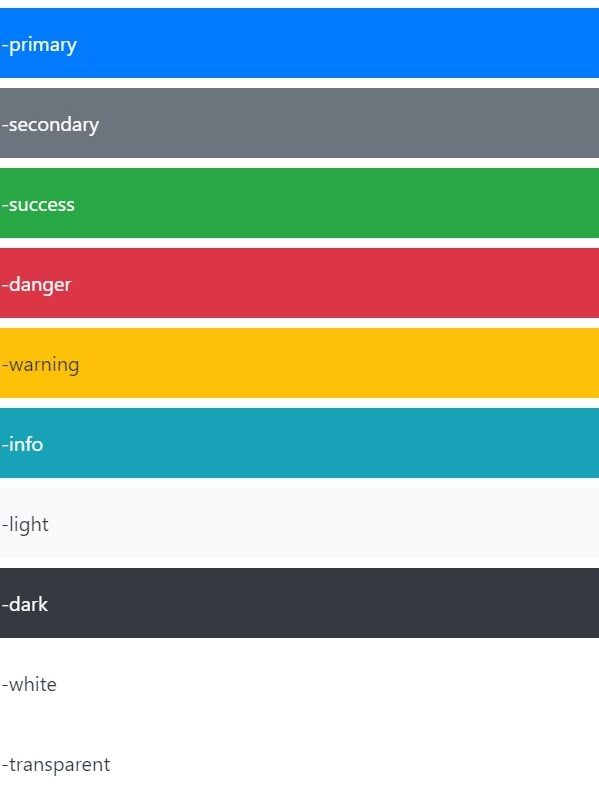
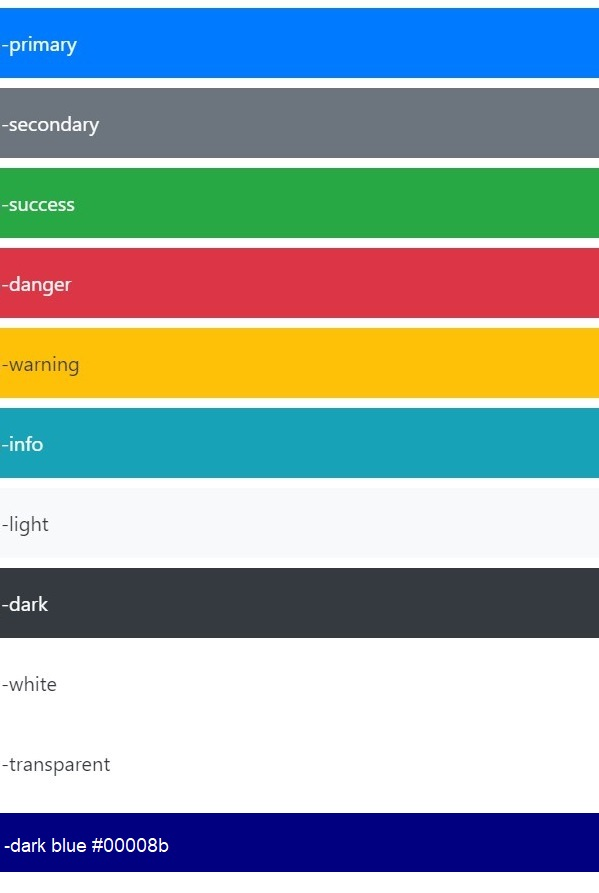
Add bugs found and known issues section for testing.md

diff --git a/TESTING.md b/TESTING.md
@@ -1350,11 +1350,126 @@ The original Excel version created by Tim Nelson, can be found [here](https://gi
 
 ## Bugs Found
 
-1. Misalignment of Materialize grid columns
+1. Missing product images
 
-<h2 align="left"><img src="docs/testing/bugs/bug-01.jpg"></h2>
+    - When the site was first deployed to Heroku, the drinks product images were missing.
 
-- Solved by assigning margin-left to 0 
+    <h2 align="left"><img src="docs/testing/bugs/bug-01-1.jpg"></h2>
+
+    - Error message for ```href``` link: *This XML file does not appear to...*
+
+    <h2 align="left"><img src="docs/testing/bugs/bug-01-2.jpg"></h2>
+
+    - The images were incorrectly named in the products section of the Django Administration dashboard.
+
+    <h2 align="left"><img src="docs/testing/bugs/bug-01-3.jpg"></h2>
+
+    - Solved by correctly naming the images in Django Admin
+
+    <h2 align="left"><img src="docs/testing/bugs/bug-01-soln.jpg"></h2>
+
+2. Favicon not displaying on Heroku
+
+    <h2 align="left"><img src="docs/testing/bugs/bug-02-1.jpg"></h2>
+
+    - Heroku was returning a 404 response because it could not find the favicon on Amazon S3.
+
+    <h2 align="left"><img src="docs/testing/bugs/bug-02-2.jpg"></h2>
+
+    - Solved by moving the favicon into the root static folder.
+
+    <h2 align="left"><img src="docs/testing/bugs/bug-02-soln.jpg"></h2>
+
+3. Misaligned page titles and horizontal rules
+
+    <h2 align="left"><img src="docs/testing/bugs/bug-03.jpg"></h2>
+
+    - Solved by ensuring all titles were centred.
+
+    <h2 align="left"><img src="docs/testing/bugs/bug-03-soln.jpg"></h2>
+
+4. Future features for the app were visible
+
+    - Some future features (new arrivals, clearance, deals) not required at the moment were still showing in the product manage section.
+
+    <h2 align="left"><img src="docs/testing/bugs/bug-04.jpg"></h2>
+
+    - Solved by adding CSS to not display those options.
+
+    <h2 align="left"><img src="docs/testing/bugs/bug-04-soln.jpg"></h2>
+
+5. No minimum text length for input fields
+
+    - The card details form has no minimum text length rules for the phone number and address fields.
+
+    <h2 align="left"><img src="docs/testing/bugs/bug-05-1.jpg"></h2>
+    <h2 align="left"><img src="docs/testing/bugs/bug-05-2.jpg"></h2>
+
+    - No action required. It was decided that for the real world there was no need to change this. For card payment validation, the user must input their correct address. An incorrect address is an indicator of an attempted fraudulent payment and the transaction will fail.
+
+6. Missing form labels
+
+    - During the Lighthouse audit, some form elements had missing labels which are useful for accessibility.
+
+    <h2 align="left"><img src="docs/testing/bugs/bug-06.jpg"></h2>
+
+    - Solved by adding aria labels.
+
+    <h2 align="left"><img src="docs/testing/bugs/bug-06-soln.jpg"></h2>
+
+7. Link does not have a discernible name
+
+    - The Facebook icon on the red banner had no label.
+
+    <h2 align="left"><img src="docs/testing/bugs/bug-07.jpg"></h2>
+
+    - Solved by adding an aria label to the ```<a></a>``` tag
+
+    <h2 align="left"><img src="docs/testing/bugs/bug-07-soln.jpg"></h2>
+
+8. Colour contrast insufficient
+
+    - The shade of blue originally used for text links was not dark enough to contrast against the site's white background.
+
+    <h2 align="left"><img src="docs/testing/bugs/bug-08.jpg"></h2>
+
+    - Solved by changing the link colour from Bootstrap's *info* shade to dark blue #00008b.
+
+    <h2 align="left"><img src="docs/testing/bugs/bug-08-soln.jpg"></h2>
+
+9. No label for *My Account* icon
+
+    <h2 align="left"><img src="docs/testing/bugs/bug-09.jpg"></h2>
+
+    - Solved by adding an aria label.
+
+    <h2 align="left"><img src="docs/testing/bugs/bug-09-soln.jpg"></h2>
+
+10. Issue with AUTH_PASSWORD_VALIDATORS setting
+
+    <h2 align="left"><img src="docs/testing/bugs/bug-10.jpg"></h2>
+
+    - During the Flake8 validation check, warnings were displayed for lines which were too long in settings.py. An attempt to fix this issue resulted in configuration errors.
+    
+    - Debug = True:
+    <h2 align="left"><img src="docs/testing/bugs/bug-10-1.jpg"></h2>
+
+    - Debug = False:
+    <h2 align="left"><img src="docs/testing/bugs/bug-10-2.jpg"></h2>
+
+    - Solved by returning the code back to it's original form and removing the line continuation slash.
+
+    <h2 align="left"><img src="docs/testing/bugs/bug-10-soln.jpg"></h2>
+
+---
+
+## Known Issues
+
+This error was removed by running the site on Chrome in Incognito mode.
+
+<h2 align="left"><img src="docs/testing/bugs/bug-00.jpg"></h2>
+
+Stack Overflow user [Chrostip Schaejn](https://stackoverflow.com/questions/72494154/a-listener-indicated-an-asynchronous-response-by-returning-true-but-the-messag) advised that this error was cause by various Chrome extensions.
 
 ---
 

diff --git a/README.md b/README.md
@@ -146,7 +146,7 @@ The site is designed to be responsive and accessible on a range of devices, maki
 
 #### Colour Scheme
 
-The following Bootstrap [colour scheme](https://getbootstrap.com/docs/4.6/utilities/colors/) was chosen for simplicity,  readability and lends itself nicely to the subject of flame baked pizzas.
+The following Bootstrap [colour scheme](https://getbootstrap.com/docs/4.6/utilities/colors/) was chosen for simplicity, readability and lends itself nicely to the subject of multi-coloured flame baked pizzas.
 
 <h2 align="left"><img src="docs/pictures/colours.jpg"></h2>
 
